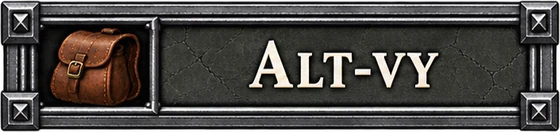
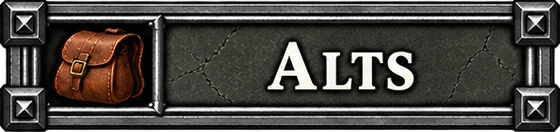
Nya menyknappar i samma storlek; Alt-vy heter Alts, Sålda items heter Försäljning

diff --git a/web/src/pages/Hjalp.tsx b/web/src/pages/Hjalp.tsx
@@ -90,7 +90,7 @@ const AMNEN: Amne[] = [
       <>Under <B>Markera såld</B> finns fyra rutor: <B>Platinum</B>, <B>Guld</B>, <B>Silver</B> och <B>Koppar</B>. Skriv priset i rätt ruta. Exempel: 75 silver – skriv <B>75</B> i silverrutan.</>,
       <>Skriv gärna vem som köpte i rutan <B>Såld till</B> (behövs inte).</>,
       <>Klicka på <B>Markera såld</B>.</>,
-      <>Vill du se allt ni sålt och hur mycket det blivit? Klicka på <Knapp namn="Sålda items" bild="salda" /></>,
+      <>Vill du se allt ni sålt och hur mycket det blivit? Klicka på <Knapp namn="Försäljning" bild="salda" /></>,
     ],
     tips: <>100 koppar = 1 silver. 100 silver = 1 guld. 100 guld = 1 platinum. Sidan räknar om åt dig.</>,
   },
@@ -100,7 +100,7 @@ const AMNEN: Amne[] = [
     bild: `${ICON}ryggsack.webp`,
     kort: 'Se allt i förrådet som passar en viss karaktär.',
     steg: [
-      <>Klicka på <Knapp namn="Alt-vy" bild="alt-vy" /></>,
+      <>Klicka på <Knapp namn="Alts" bild="alt-vy" /></>,
       <>Klicka på karaktären du vill kolla.</>,
       <>Nu visas allt som karaktären kan använda, sorterat efter var det sitter (huvud, fötter …). Bästa först.</>,
     ],

diff --git a/web/src/App.tsx b/web/src/App.tsx
@@ -14,8 +14,8 @@ const NAV: [string, string, string][] = [
   ['/', 'Förråd', 'forrad'],
   ['/ny', 'Lägg till', 'lagg-till'],
   ['/karaktarer', 'Karaktärer', 'karaktarer'],
-  ['/alt', 'Alt-vy', 'alt-vy'],
-  ['/salda', 'Sålda items', 'salda'],
+  ['/alt', 'Alts', 'alt-vy'],
+  ['/salda', 'Försäljning', 'salda'],
   ['/hjalp', 'Hjälp', 'hjalp'],
 ]
 const MENU = `${import.meta.env.BASE_URL}ikoner/meny/`

diff --git a/web/src/pages/Salda.tsx b/web/src/pages/Salda.tsx
@@ -69,7 +69,7 @@ export function Salda() {
 
   return (
     <div className="page">
-      <h1 className="page-title">Sålda items</h1>
+      <h1 className="page-title">Försäljning</h1>
 
       <div className="sales-summary">
         <div className="panel stat-box stat-box--total">

diff --git a/web/src/index.css b/web/src/index.css
@@ -841,7 +841,7 @@ body {
    Samma höjd på alla; bredden följer bilden (Hjälp är kortare än de andra). */
 .nav { gap: 0.5rem; }
 .menu-img {
-  --h: clamp(36px, 3.4vw, 50px);
+  --h: clamp(34px, 3.2vw, 46px);
   position: relative;
   display: inline-block;
   height: var(--h);
